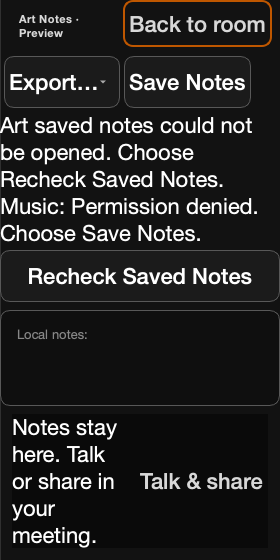
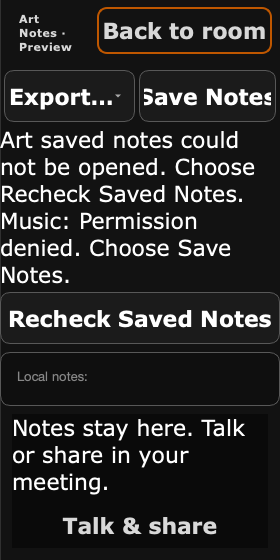
Fit Notes recovery to platform font metrics

diff --git a/webjam_qt/widgets/session_canvas.py b/webjam_qt/widgets/session_canvas.py
@@ -13,6 +13,7 @@ import sys
 
 from PySide6.QtCore import QEvent, Qt, Signal
 from PySide6.QtWidgets import (
+    QBoxLayout,
     QFileDialog,
     QFrame,
     QHBoxLayout,
@@ -102,6 +103,7 @@ class SessionCanvas(QFrame):
         self._notes_recovery_summary: tuple[tuple[str, str], ...] = ()
         self._notes_need_attention = False
         self._notes_attention_presentation = None
+        self._notes_recovery_measurement = None
         self._notes_export_handler: Callable[[str, str], None] | None = None
 
         self._header = QLabel("Session Canvas")
@@ -361,6 +363,7 @@ class SessionCanvas(QFrame):
         layout.addWidget(self._pulse)
         layout.addWidget(self._notes, stretch=1)
         chat_row = QHBoxLayout()
+        self._chat_row = chat_row
         chat_row.setContentsMargins(Space.MD, 0, Space.MD, 0)
         chat_row.addWidget(self._chat_input)
         chat_row.addWidget(self._art_communication)
@@ -620,6 +623,7 @@ class SessionCanvas(QFrame):
             # readout; the shared guidance facts themselves remain unchanged.
             self._guidance.setVisible(not combined)
         self._sync_suggestion_layout()
+        self._sync_notes_recovery_layout()
         # Retained drafts belong to the window even while this panel is hidden.
         # Project only bounded workspace/reason copy, never the draft itself.
         notice = (
@@ -698,6 +702,44 @@ class SessionCanvas(QFrame):
         if focused and available and not self._suggestion_button.hasFocus():
             self._suggestion_button.setFocus(Qt.FocusReason.OtherFocusReason)
 
+    def _sync_notes_recovery_layout(self) -> None:
+        """Fit recovery copy using the current font and available Notes width."""
+        if not hasattr(self, "_chat_row") or self.layout() is None:
+            return
+        margins = self.layout().contentsMargins()
+        width = max(1, self.contentsRect().width() - margins.left() - margins.right())
+        status = self._notes_save_status
+        measurement = (
+            width, status.isHidden(), status.text(), status.font().key(),
+            self.styleSheet(), status.styleSheet(), status.margin(), status.indent(),
+            status.contentsMargins(),
+        )
+        if measurement != self._notes_recovery_measurement:
+            # QLabel includes its existing minimum in heightForWidth. Clear it
+            # only for changed inputs, then cache the natural measurement so
+            # the geometry update cannot perpetuate LayoutRequest events.
+            self._notes_recovery_measurement = measurement
+            status.setMinimumHeight(0)
+            if not status.isHidden():
+                status.setMinimumHeight(max(0, status.heightForWidth(width)))
+
+        communication = self._art_communication.layout()
+        direction = QBoxLayout.Direction.LeftToRight
+        if self._art_profile and self._notes_need_attention:
+            chat_margins = self._chat_row.contentsMargins()
+            footer_width = max(1, width - chat_margins.left() - chat_margins.right())
+            button = self._talk_share_button.minimumSizeHint()
+            beside_width = max(1, footer_width - button.width() - communication.spacing())
+            beside_height = max(self._communication_hint.heightForWidth(beside_width), button.height())
+            stacked_height = (
+                self._communication_hint.heightForWidth(footer_width)
+                + button.height() + communication.spacing()
+            )
+            if stacked_height < beside_height:
+                direction = QBoxLayout.Direction.TopToBottom
+        if communication.direction() != direction:
+            communication.setDirection(direction)
+
     def _sync_notes_controls(self) -> None:
         compact = self._art_profile and self.height() < 500
         narrow = self._art_profile and self.width() < 400
@@ -719,7 +761,17 @@ class SessionCanvas(QFrame):
                 margin = Space.XS if compact else Space.SM
                 readout.layout().setContentsMargins(Space.MD, margin, Space.MD, margin)
                 readout.layout().setSpacing(0 if compact else Space.XS)
+        if not self._art_profile:
+            # The long recovery action must fit the same narrow rail in Music.
+            # Art keeps its existing compact-height and narrow-padding rules.
+            recheck_style = (
+                f"padding-left: {Space.XS}px; padding-right: {Space.XS}px;"
+                if self.width() < 400 else ""
+            )
+            if self._recheck_notes_button.styleSheet() != recheck_style:
+                self._recheck_notes_button.setStyleSheet(recheck_style)
         self._sync_suggestion_layout()
+        self._sync_notes_recovery_layout()
 
     def eventFilter(self, watched, event) -> bool:
         if (watched is getattr(self, "_notes", None) and self._art_profile

diff --git a/tests/test_notes_font_reflow.py b/tests/test_notes_font_reflow.py
@@ -1,0 +1,122 @@
+"""Recovery text stays whole with taller/wider platform fonts at the window floor."""
+
+from __future__ import annotations
+
+from PySide6.QtCore import QPoint, QRect, QSize
+from PySide6.QtGui import QFontDatabase
+from PySide6.QtWidgets import QStyle, QStyleOptionButton
+
+from tests.test_notes_combined_unreadable import combined as _combined_fixture
+from tests.test_notes_unreadable_recheck import (
+    qapp as _qapp_fixture,
+    unreadable_notes as _unreadable_notes_fixture,
+)
+from webjam_qt.theme import load_stylesheet
+
+qapp = _qapp_fixture
+combined = _combined_fixture
+unreadable_notes = _unreadable_notes_fixture
+
+
+def _stress_style():
+    available = set(QFontDatabase.families())
+    family = next(
+        (
+            name
+            for name in ("Verdana", "DejaVu Sans", "Noto Sans", "Liberation Sans")
+            if name in available
+        ),
+        None,
+    )
+    assert family is not None, (
+        "A standard desktop sans-serif font is required for the rendered fixture"
+    )
+    return (
+        load_stylesheet()
+        + f'\nQLabel, QPushButton {{font-family:"{family}"; font-size:22px;}}'
+    )
+
+
+def _check_recovery(case, qapp, *, combined=False):
+    for _ in range(3):
+        qapp.processEvents()
+    canvas = case.canvas
+    status = canvas._notes_save_status
+    assert canvas.size() == QSize(280, 560)
+    assert status.height() >= status.heightForWidth(status.width())
+    assert status.minimumHeight() == status.heightForWidth(status.width())
+    widgets = [status, canvas._recheck_notes_button, canvas._notes]
+    if combined:
+        widgets += [
+            canvas._save_notes_button,
+            canvas._communication_hint,
+            canvas._talk_share_button,
+        ]
+    for widget in widgets:
+        assert widget.isVisibleTo(canvas)
+        assert canvas.rect().contains(
+            QRect(widget.mapTo(canvas, QPoint()), widget.size())
+        )
+        assert widget.height() >= widget.fontMetrics().height()
+    assert (
+        canvas._recheck_notes_button.width()
+        >= canvas._recheck_notes_button.fontMetrics().horizontalAdvance(
+            canvas._recheck_notes_button.text()
+        )
+    )
+    button = canvas._recheck_notes_button
+    option = QStyleOptionButton()
+    option.initFrom(button)
+    content = button.style().subElementRect(
+        QStyle.SubElement.SE_PushButtonContents, option, button
+    )
+    assert content.width() >= button.fontMetrics().horizontalAdvance(button.text())
+    if combined:
+        hint = canvas._communication_hint
+        assert hint.height() + 1 >= hint.heightForWidth(hint.width())
+
+
+def test_combined_recovery_reflows_taller_font_without_clipping_or_growing(
+    combined, qapp
+):
+    combined.canvas.setStyleSheet(_stress_style())
+    _check_recovery(combined, qapp, combined=True)
+
+
+def test_music_original_recheck_reflows_taller_font_without_clipping_or_growing(
+    unreadable_notes, qapp
+):
+    unreadable_notes.canvas.setStyleSheet(_stress_style())
+    _check_recovery(unreadable_notes, qapp)
+
+
+def test_recovery_height_tracks_width_font_message_and_visibility(combined, qapp):
+    canvas = combined.canvas
+    canvas.setStyleSheet(_stress_style())
+    _check_recovery(combined, qapp, combined=True)
+    status = canvas._notes_save_status
+    narrow_height = status.minimumHeight()
+    canvas.resize(480, 560)
+    for _ in range(3):
+        qapp.processEvents()
+    assert status.minimumHeight() == status.heightForWidth(status.width())
+    assert status.minimumHeight() < narrow_height
+    canvas.resize(280, 560)
+    _check_recovery(combined, qapp, combined=True)
+    canvas.setStyleSheet(load_stylesheet())
+    for _ in range(3):
+        qapp.processEvents()
+    assert status.minimumHeight() < narrow_height
+    combined.art.write_text("Recovered Art original")
+    assert combined.owner.reload_unreadable_notes("art")
+    for _ in range(3):
+        qapp.processEvents()
+    assert "Recheck Saved Notes" not in status.text()
+    assert status.minimumHeight() == status.heightForWidth(status.width())
+    assert combined.owner.export_pending_notes(
+        "music", "Retained Music draft", str(combined.music.parent / "music-copy.md")
+    )
+    for _ in range(3):
+        qapp.processEvents()
+    assert status.isHidden()
+    assert status.minimumHeight() == 0

diff --git a/tests/test_recording_setup_compact_recovery.py b/tests/test_recording_setup_compact_recovery.py
@@ -8,7 +8,7 @@ os.environ.setdefault("QT_QPA_PLATFORM", "offscreen")
 import pytest
 from PySide6.QtCore import QPoint, QCoreApplication, QEvent
 from PySide6.QtGui import QFont
-from PySide6.QtWidgets import QApplication, QPushButton, QWidget
+from PySide6.QtWidgets import QApplication, QLabel, QPushButton, QWidget
 from shiboken6 import isValid
 
 from core.settings import AppSettings
@@ -87,6 +87,9 @@ def test_setup_recovery_controls_fit_at_compact_sizes(
             assert point.y() + rect.height() <= viewport.height()
         for checkbox in (dialog._capture, dialog._repair_format):
             assert checkbox.width() >= checkbox.sizeHint().width()
+        for label in dialog.findChildren(QLabel):
+            if label.wordWrap() and label.isVisibleTo(dialog):
+                assert label.height() >= label.heightForWidth(label.width()), label.objectName()
         save = next(
             button for button in dialog.findChildren(QPushButton)
             if button.text() == "Save Recording Setup"

diff --git a/tests/test_notes_combined_unreadable.py b/tests/test_notes_combined_unreadable.py
@@ -81,7 +81,6 @@ def test_hidden_music_draft_does_not_hide_current_art_recheck(
     assert case.owner.unsaved_notes == (("music", "Retained Music draft"),)
     assert case.canvas.current_notes() == ""
     case.art.write_text("Saved Art after access is fixed")
-    print("STATUS:", case.canvas._notes_save_status.text())
     assert case.canvas._recheck_notes_button.isVisibleTo(case.canvas), (
         "The current empty Art original can be safely rechecked while Music remains unsaved."
     )

diff --git a/docs/evidence/manager-demo-recovery-20260922/README.md b/docs/evidence/manager-demo-recovery-20260922/README.md
@@ -35,13 +35,14 @@ These are actual offscreen Qt fixtures with synthetic participants, source files
 | Studio playback failure, 760×600 | [Visible Playback output and Play](studio-playback-recovery.png) |
 | Studio export failure, standalone 760×600 | [Effective 125% text size](studio-export-125.png) |
 | Notes, 280×560 | [Unavailable original](notes-recheck.png), [reopened original](notes-reopened.png) |
-| Two workspace recovery, 280×560 | [22px status and actions](notes-workspace-recovery-large-text.png) |
+| Two workspace recovery, 280×560 | [22px wider-font status and actions](notes-workspace-recovery-large-text.png) |
+| Music original recovery, 280×560 | [22px wider-font action contents](notes-recheck-large-text.png) |
 
 The screenshot fixtures use the same controller/Studio/Notes setup and failure injection as the regression files above. Rendering uses `QT_QPA_PLATFORM=offscreen`, `load_stylesheet()`, and the actual widget's `grab()`. Layout tests additionally exercise 125% wider glyphs in Recording Setup, long folder paths including literal `<archive>`, and 13px/22px Notes text.
 
 ## Local verification
 
-The exact 30-module recovery/readiness gate is in [focused-modules.json](focused-modules.json). Run from the repo root:
+The exact 32-module recovery/readiness gate passes 677 tests and is in [focused-modules.json](focused-modules.json). Run from the repo root:
 
 ```sh
 QT_QPA_PLATFORM=offscreen .venv/bin/python - <<'PY'
@@ -70,12 +71,14 @@ Swift protocol/transport tests accept both new desktop recovery action values wh
 
 The first hosted run exposed `test_live_hud_waits_for_human_hearing_confirmation_before_using_ready_style`: recovery rendering accessed Studio before checking whether the current role/action used it. The same failure reproduced locally. Product guards now reject ineligible recovery before accessing its UI owner; the original test is unchanged. The corrected native-startup/shared-recovery gate passes 128 tests.
 
-An additional [12-module controller compatibility gate](controller-compatibility-modules.json) passes 376 tests in fresh processes, matching CI's Qt lifetime isolation. Run each listed module with `.venv/bin/python -m pytest -q`. Combined with the 577-test primary gate and 211-test Art subset, local coverage is **1,125 unique Python tests** (the 20 Local Originals profile and 19 unified-guidance tests appear in both gates).
+An additional [12-module controller compatibility gate](controller-compatibility-modules.json) passes 376 tests in fresh processes, matching CI's Qt lifetime isolation. Run each listed module with `.venv/bin/python -m pytest -q`. Combined with the 677-test primary gate and 211-test Art subset, local coverage is **1,225 unique Python tests** (the 20 Local Originals profile and 19 unified-guidance tests appear in both gates).
+
+Hosted Linux then exposed clipping in the original combined-Notes 22px assertion. Wider/taller Verdana text reproduced the defect locally. The Art footer now chooses the arrangement needing less height during recovery, and the status label reserves its measured wrapped height. Measurement is refreshed when width, font, copy or visibility changes, and clears when recovery ends. The long Music Recheck action also uses narrow padding. The original assertion remains intact; three added regressions verify both Notes states, actual button-content space, and reflow/reset behavior. The wider-font images above show the resulting 280×560 layouts. Studio and Setup also passed the existing 22 layout tests with wider/taller fonts; this stress check supplements hosted Linux verification.
 
 ## Ranked remaining work
 
 1. Embedded schema-2 Studio at the full-window 760×600 floor still compresses Arrange/mixer content beneath its toolbars. The new recovery action and footer fit, but this pre-existing layout deserves a dedicated interaction pass. The 1000×740 screenshot shows the usable demo workspace.
-2. Healthy Notes' existing toolbar/pulse can clip at 22px in a narrow panel after recovery. The failure and combined recovery states tested here remain readable.
+2. Healthy Music Notes' existing toolbar/pulse can clip at 22px in a narrow panel after recovery. The failure and combined recovery states tested here remain readable.
 3. Studio save recovery still uses general storage guidance. Distinguishing permission, space, and external-document conflicts with separate safe remedies is a further product slice; this change retains conflict protection and quit veto rather than forcing an overwrite.
 
 Leave OPEN DRAFT for independent Karen review and Jeff feel. No merge, tag, release, Latest, spend, signing/notarization, or physical PASS; parked #37/#49 are untouched.
